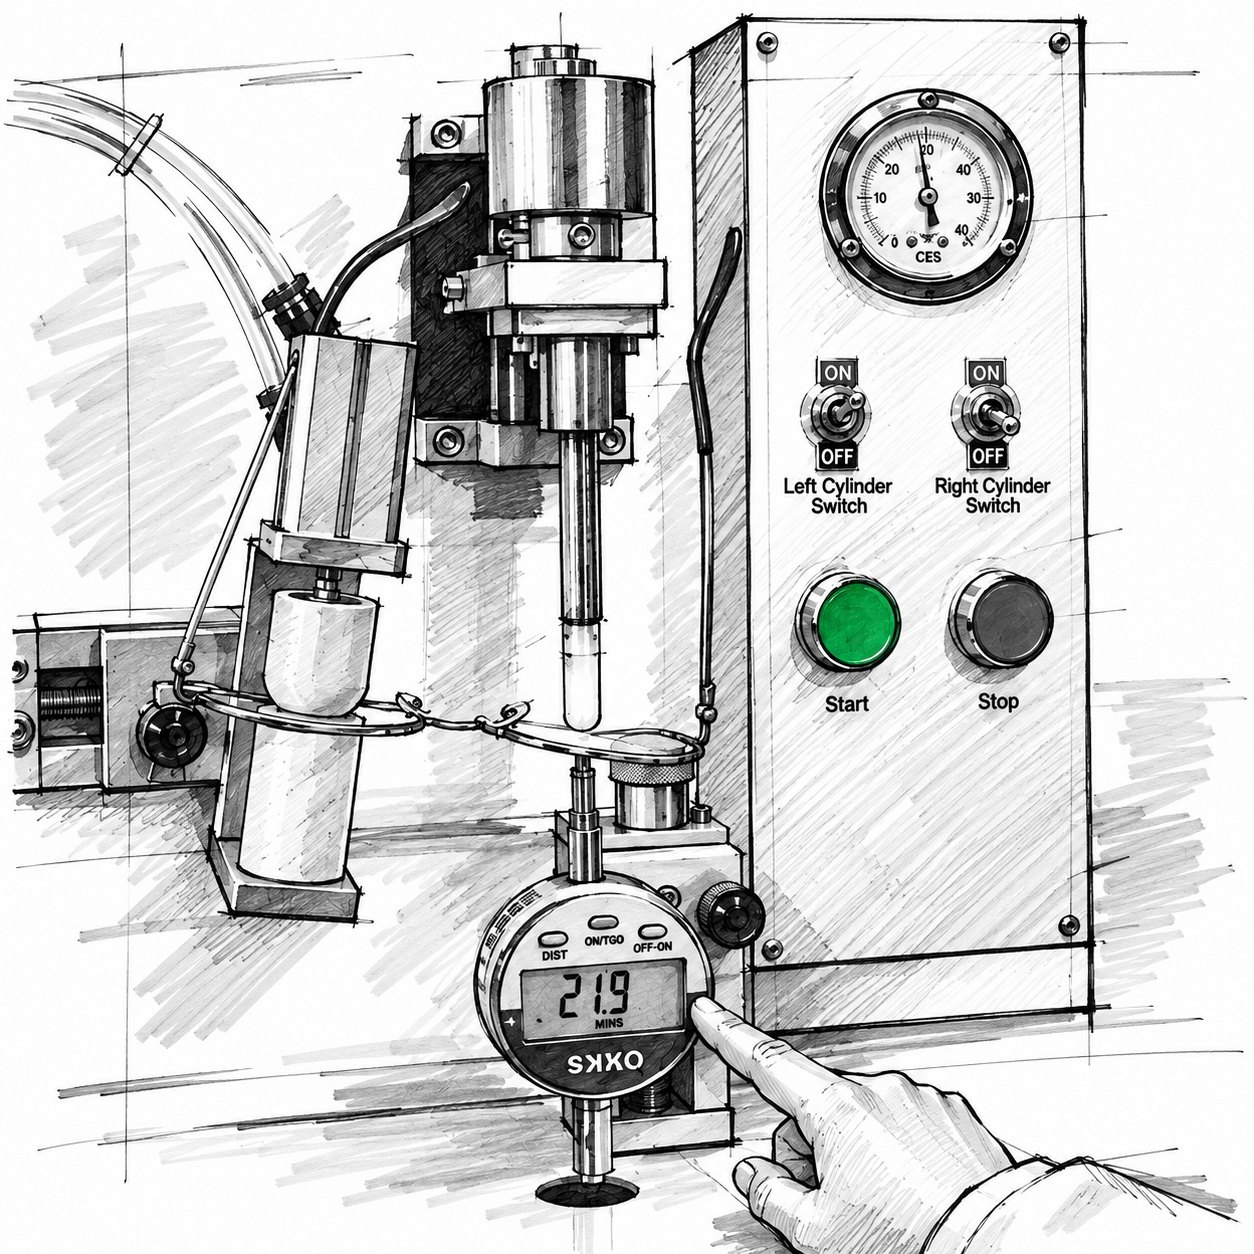
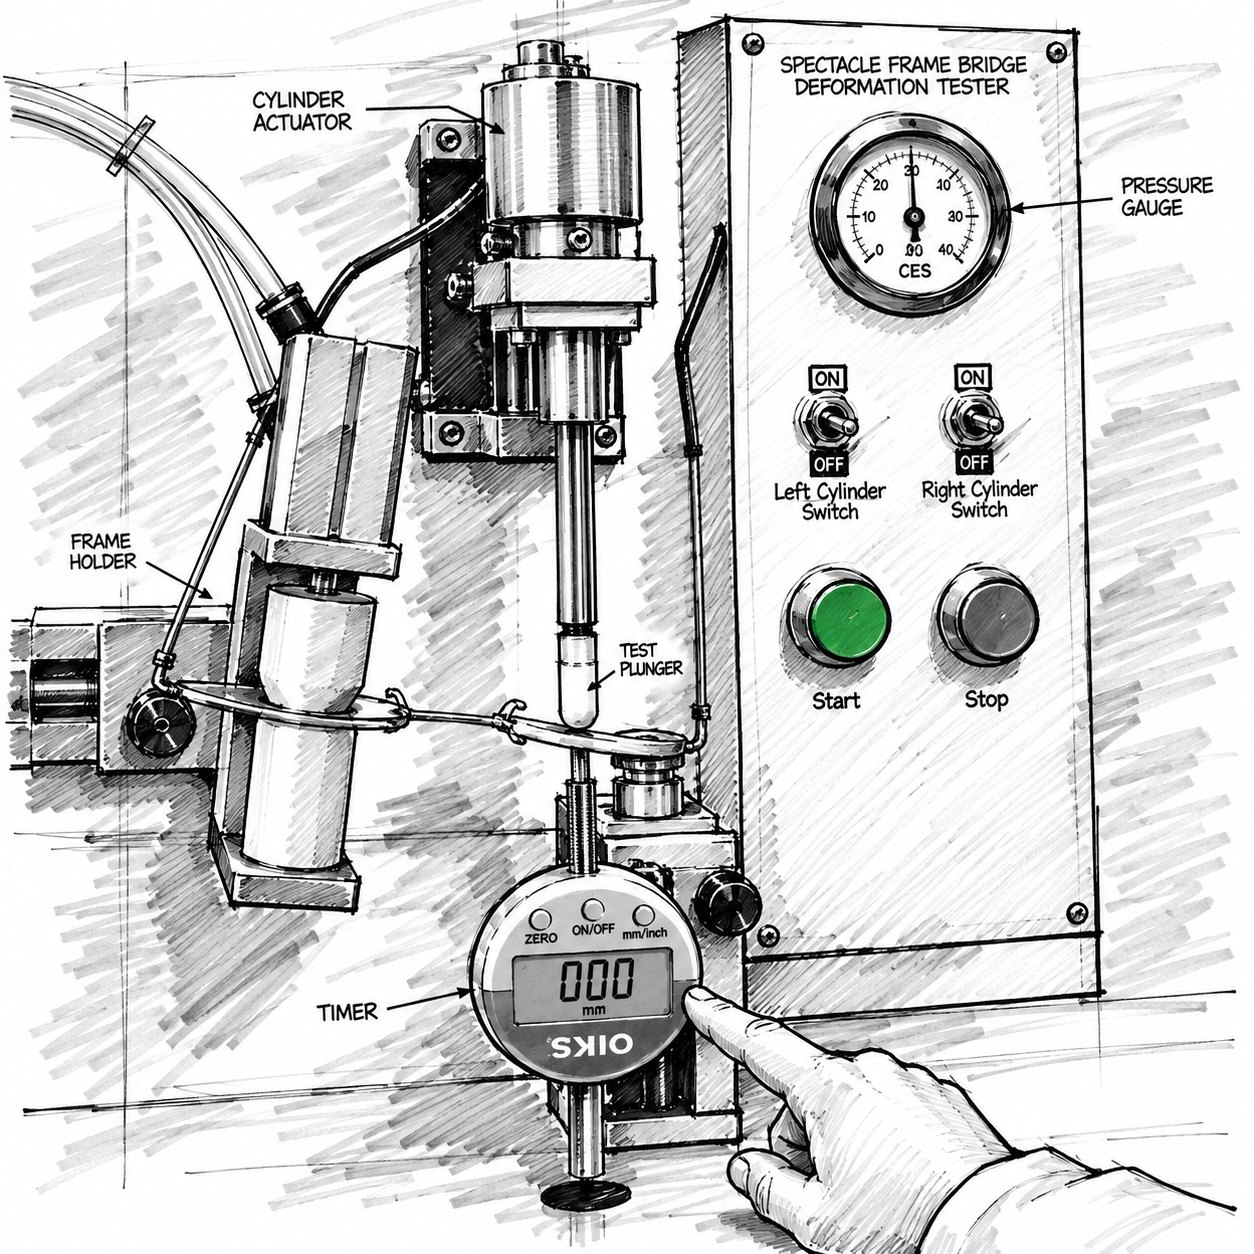
QC section: labelled bridge deformation tester illustration
Claude-Session: https://claude.ai/code/session_0141jXaXWA5yFJMaJBq6GRtz

diff --git a/index.html b/index.html
@@ -284,7 +284,7 @@ form{display:flex;flex-direction:column;gap:6px}
   <div class="odm rev">
     <div class="reveal" style="--d:.12s"><div data-plx="-10"><h2>Stress Test Quality Control</h2>
     <p>We possess a range of eyewear testing machines, including eyeglass frame fatigue testing machines, eyeglass hinge opening and closing testing machines, sun-lens stress testing machines, Polaroid lens testing machines, sun-lens drop ball testing machines, metal and titanium eyeglass frame salt spray testing machines, sweat testing machines, eyeglass frame reading machines, eyeglass frame strength testing machines, etc. All our new products, new structures, and new materials undergo rigorous testing to ensure that the final product meets customer requirements.</p></div></div>
-    <div class="plx-wrap" data-slide="r"><div class="plx"><img src="img/qc-stress-test.jpg" alt="Sketch of an eyewear stress-testing machine with a digital gauge and control panel" width="1254" height="1254" loading="lazy"></div></div>
+    <div class="plx-wrap" data-slide="r"><div class="plx"><img src="img/qc-stress-test.jpg" alt="Sketch of a spectacle frame bridge deformation tester with labelled parts" width="1254" height="1254" loading="lazy"></div></div>
   </div>
 </section>
 
